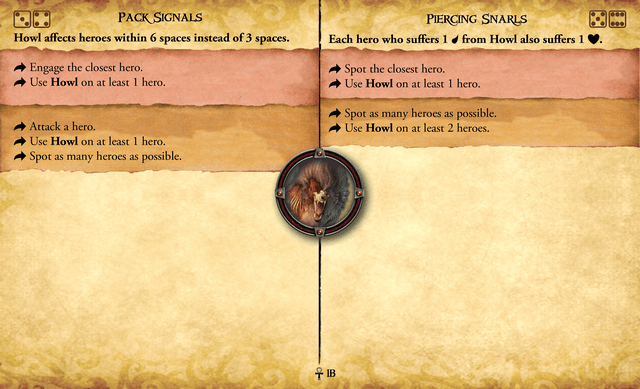
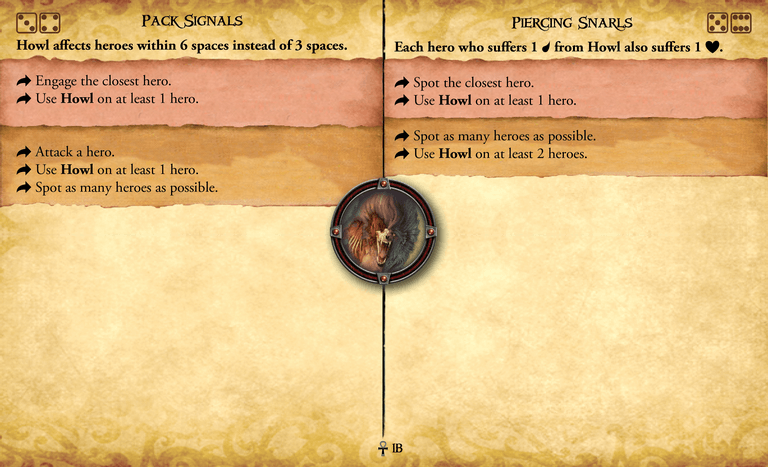
Fix Monster-Activation Card Sizes

diff --git a/xwc/content.js b/xwc/content.js
@@ -9,7 +9,6 @@ const ignoredNodes = ['TEXTAREA', 'INPUT'];
 const xwcRed = '#e81e25';
 const offset = 5;
 const cardWidth = 640;
-const cardHeight = 480;
 const imagePadding = 4;
 let amountOfMatches = 1;
 const classname = '__xwc-container';

diff --git a/xwc/content.css b/xwc/content.css
@@ -13,8 +13,8 @@
 .__xwc-image-container > img {
     margin: 0 2px;
     vertical-align: middle;
-    max-height: 640px;
-    max-width: 480px;
+    max-height: 768px;
+    max-width: 467px;
 }
 
 .__xwc-container {
